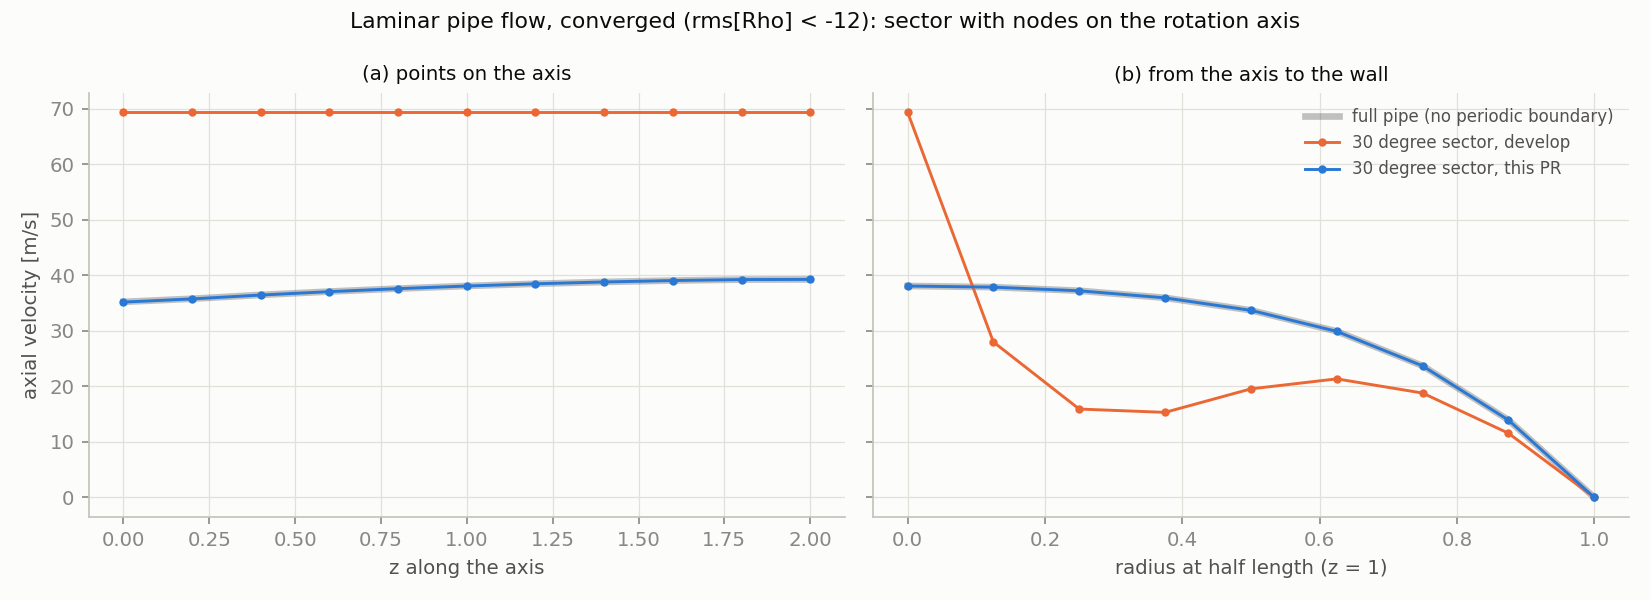
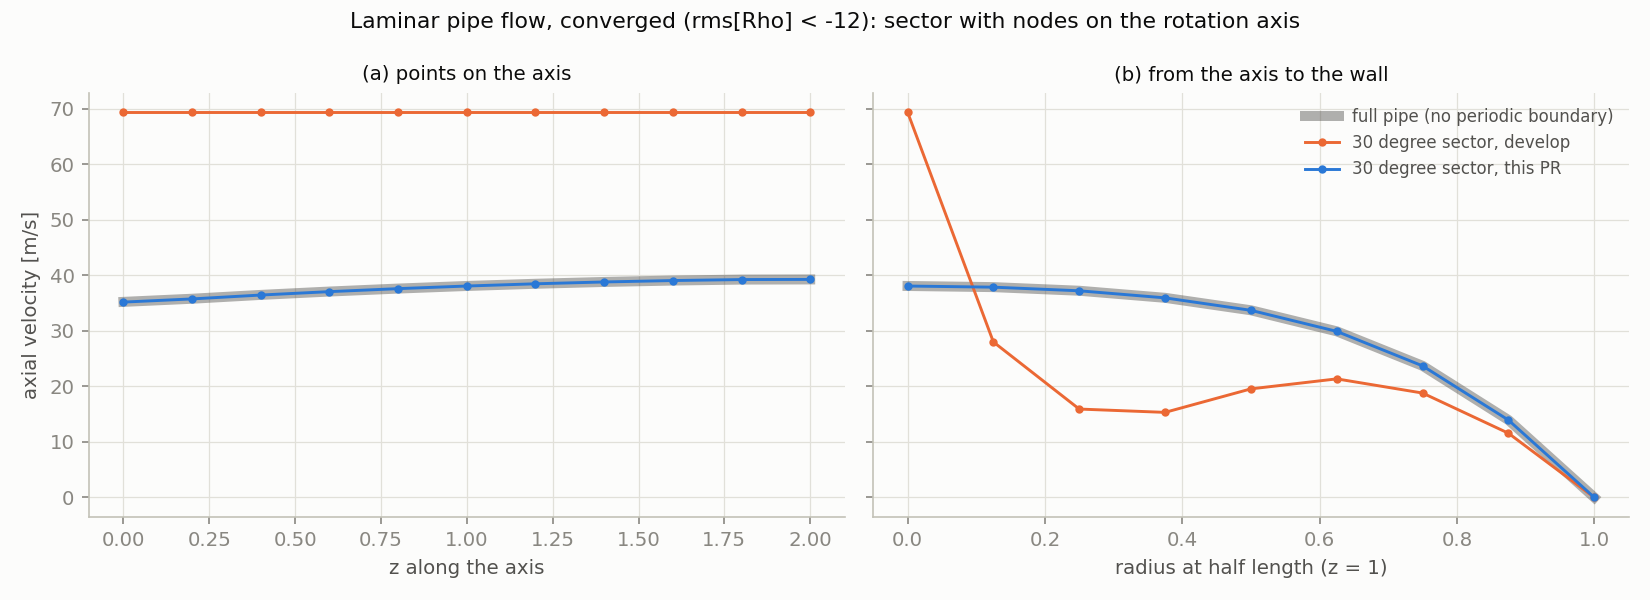
Keep gray reference curves visible beneath overlapping periodic fixes

diff --git a/periodicBoundaries/rotation/plot_periodic.py b/periodicBoundaries/rotation/plot_periodic.py
@@ -85,9 +85,9 @@ def limiter():
     fig, ax = plt.subplots(1, 2, figsize=(11, 4.0), sharey=True)
     for a, comp, name in ((ax[0], "Limiter_Velocity_x", "x velocity"), (ax[1], "Limiter_Velocity_y", "y velocity")):
         ref = np.array([float(x[comp + "_annulus"]) for x in rows])
-        a.plot(r, ref, color=REF, lw=3.2, alpha=0.35, label="full annulus (no periodic boundary)")
-        a.plot(r, [float(x[comp + "_develop"]) for x in rows], color=DEV, lw=1.4, marker="o", ms=3, label="sector, develop")
-        a.plot(r, [float(x[comp + "_pr"]) for x in rows], color=FIX, lw=1.4, marker="o", ms=3, label="sector, this PR")
+        a.plot(r, ref, color=REF, lw=4.8, alpha=0.45, zorder=2, label="full annulus (no periodic boundary)")
+        a.plot(r, [float(x[comp + "_develop"]) for x in rows], color=DEV, lw=1.4, marker="o", ms=3, zorder=3, label="sector, develop")
+        a.plot(r, [float(x[comp + "_pr"]) for x in rows], color=FIX, lw=1.4, marker="o", ms=3, zorder=4, label="sector, this PR")
         a.set_xlabel("radius of the point on the periodic boundary")
         a.set_title("limiter of the %s" % name)
     ax[0].set_ylabel("limiter")

diff --git a/periodicBoundaries/axis/plot_periodic.py b/periodicBoundaries/axis/plot_periodic.py
@@ -37,9 +37,9 @@ def hist(run):
 def axis():
     rows = list(csv.DictReader(open(os.path.join(HERE, "pipe_axis", "axis_profile.csv"))))
     fig, ax = plt.subplots(1, 2, figsize=(11, 4.0), sharey=True)
-    runs = (("full_converged", "full pipe (no periodic boundary)", REF, dict(lw=3.2, alpha=0.35)),
-            ("develop_w30_converged", "30 degree sector, develop", DEV, dict(lw=1.4, marker="o", ms=3)),
-            ("pr_w30_converged", "30 degree sector, this PR", FIX, dict(lw=1.4, marker="o", ms=3)))
+    runs = (("full_converged", "full pipe (no periodic boundary)", REF, dict(lw=4.8, alpha=0.45, zorder=2)),
+            ("develop_w30_converged", "30 degree sector, develop", DEV, dict(lw=1.4, marker="o", ms=3, zorder=3)),
+            ("pr_w30_converged", "30 degree sector, this PR", FIX, dict(lw=1.4, marker="o", ms=3, zorder=4)))
     for a, line, xlabel, title in ((ax[0], "axis", "z along the axis", "(a) points on the axis"),
                                    (ax[1], "radius", "radius at half length (z = 1)", "(b) from the axis to the wall")):
         for run, label, color, style in runs:

diff --git a/periodicBoundaries/counts/plot_periodic.py b/periodicBoundaries/counts/plot_periodic.py
@@ -37,9 +37,9 @@ def hist(run):
 def heat():
     fig, a = plt.subplots(1, 1, figsize=(6.4, 4.0))
     p = "pin_array_heat/"
-    for run, label, color, style in (("develop_heat_no", "heat equation off (develop and this PR)", REF, dict(lw=3.2, alpha=0.35)),
-                                     ("develop_heat_yes", "heat equation on, develop", DEV, dict(lw=1.4)),
-                                     ("pr_heat_yes", "heat equation on, this PR", FIX, dict(lw=1.4, ls="--"))):
+    for run, label, color, style in (("develop_heat_no", "heat equation off (develop and this PR)", REF, dict(lw=4.8, alpha=0.45, zorder=2)),
+                                     ("develop_heat_yes", "heat equation on, develop", DEV, dict(lw=1.4, zorder=3)),
+                                     ("pr_heat_yes", "heat equation on, this PR", FIX, dict(lw=1.4, ls="--", zorder=4))):
         h = hist(p + run)
         a.plot(h["Inner_Iter"], h["rms[P]"], color=color, label="%s: %d iterations" % (label, len(h["rms[P]"])), **style)
     a.set_xlabel("iteration")
